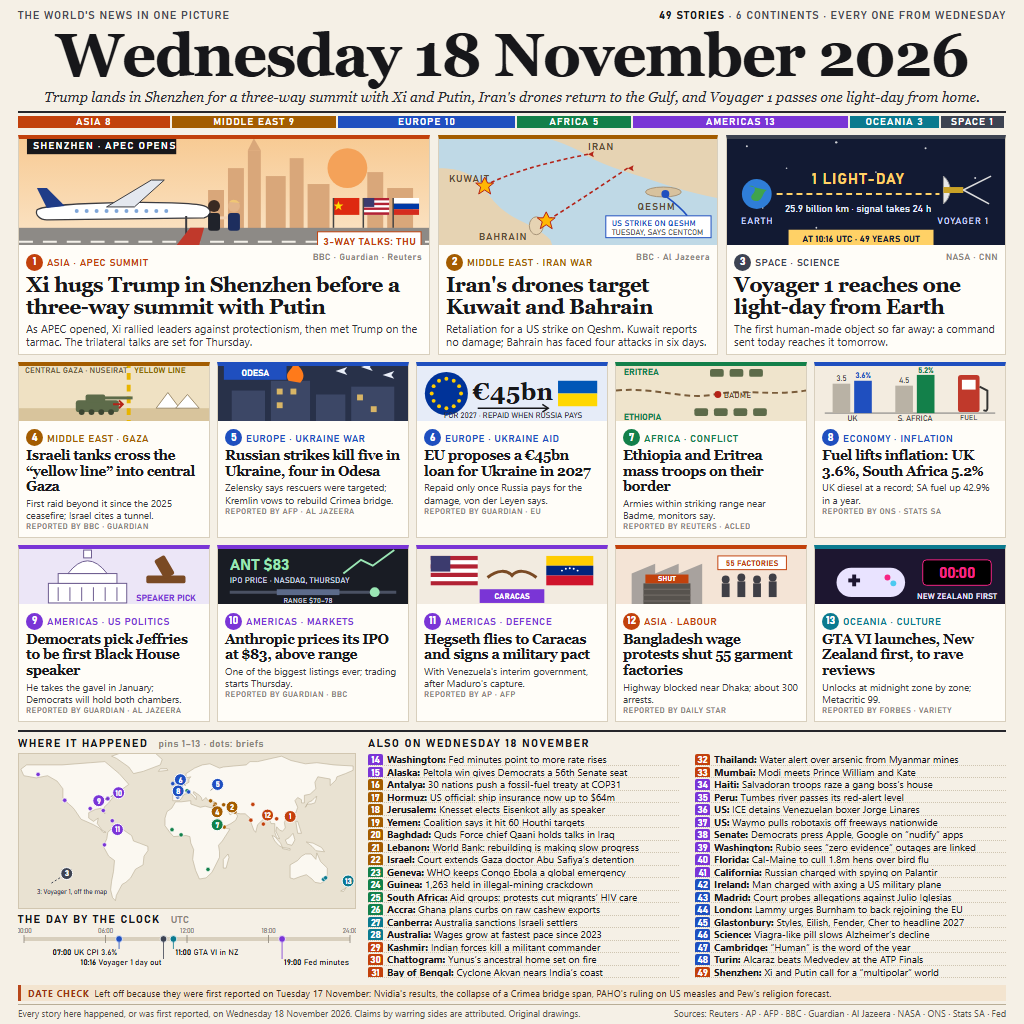
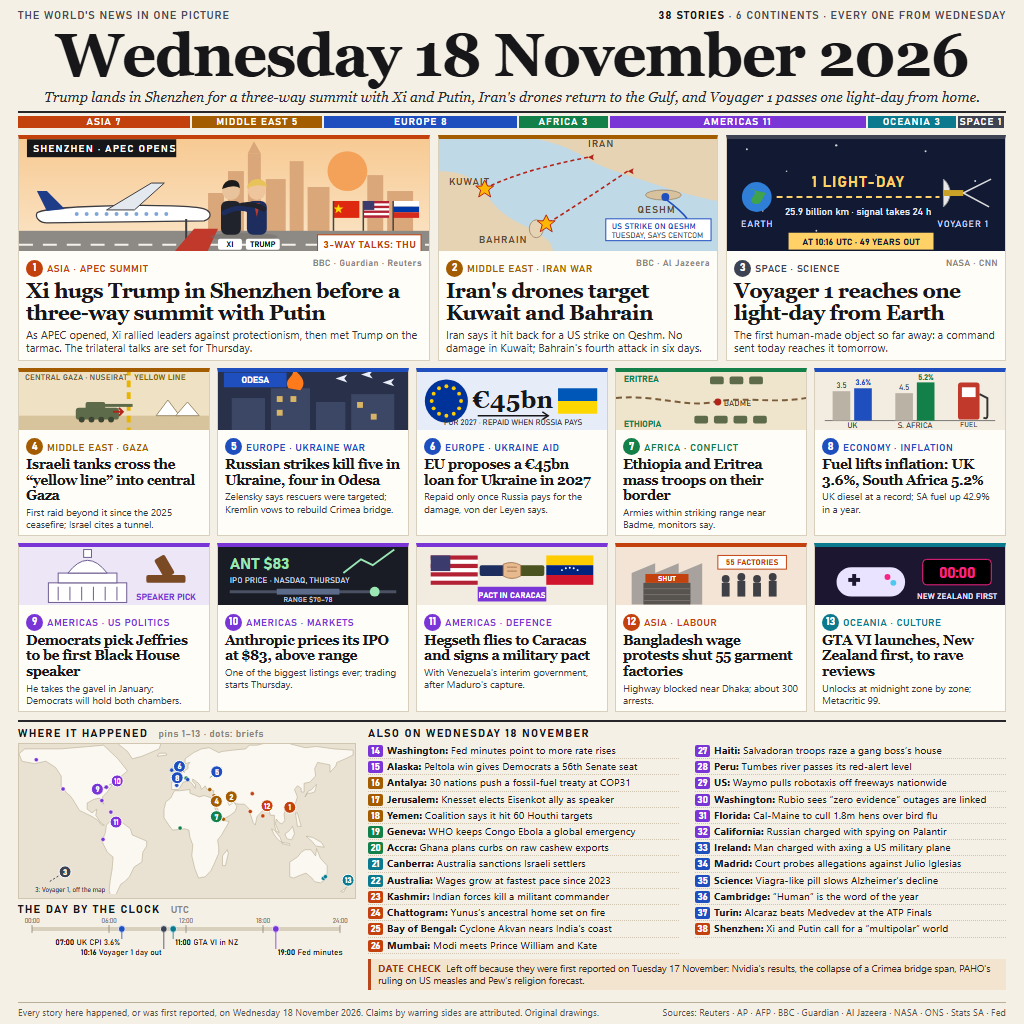
World Front v3: back to the 38-story page, clearer drawings
Starts again from v1's layout (the 49-story v2 scored lower). The lead
now shows Xi and Trump's tarmac hug with name tags, the Caracas card a
handshake, the Iran card attributes the motive to Iran, Peru replaces
the Amazon brief, and the map and UTC clock are cropped to fit.

diff --git a/src/front.html b/src/front.html
@@ -49,7 +49,6 @@
   .lead h2 { font-family: Georgia, serif; font-size: 20.5px; line-height: 22.5px; margin-top: 3px; letter-spacing: -.3px; }
   .lead p { font-size: 11px; line-height: 13.6px; color: #33333a; margin-top: 3px; }
   .sm h3 { font-family: Georgia, serif; font-size: 13.6px; line-height: 15.6px; margin-top: 2px; letter-spacing: -.2px; }
-  .tag { font: 600 7.6px Bahnschrift, sans-serif; letter-spacing: .08em; color: #8a8478; margin-top: 2px; line-height: 9px; }
   .sm p { font-size: 9.8px; line-height: 12.2px; color: #3a3a42; margin-top: 2px; }
 
   /* bottom */
@@ -59,13 +58,12 @@
   .label span { color: #8a8478; font-weight: 600; letter-spacing: .06em; text-transform: none; font-size: 9.5px; margin-left: 6px; }
   .mapbox { background: #e9e2d2; border: 1px solid #d1c6b0; margin-top: 3px; }
   .briefs { columns: 2; column-gap: 16px; margin-top: 3px; }
-  .briefs div { font-size: 9.9px; line-height: 11.6px; height: 12.5px; break-inside: avoid; padding: 0; border-bottom: 1px dotted #cfc5b1; white-space: nowrap; overflow: hidden; text-overflow: ellipsis; }
-  .briefs i { font-style: normal; display: inline-block; width: 15px; line-height: 10.5px; vertical-align: 0; font: 700 9.5px Bahnschrift, sans-serif; color: #fff; background: var(--c); text-align: center; border-radius: 2px; margin-right: 4px; }
+  .briefs div { font-size: 10.3px; line-height: 13.2px; break-inside: avoid; padding: 1px 0 1px 0; border-bottom: 1px dotted #cfc5b1; white-space: nowrap; overflow: hidden; text-overflow: ellipsis; }
+  .briefs i { font-style: normal; display: inline-block; width: 15px; font: 700 9.5px Bahnschrift, sans-serif; color: #fff; background: var(--c); text-align: center; border-radius: 2px; margin-right: 4px; }
   .briefs b { font-weight: 700; }
   .clock { margin-top: 4px; }
-  .foot { position: absolute; left: 18px; right: 18px; bottom: 5px; font-size: 9px; color: #55524b; }
-  .foot .fl { display: flex; justify-content: space-between; border-top: 1px solid #b9ae97; padding-top: 2px; margin-top: 3px; }
-  .check { background: #f3e4cf; border-left: 3px solid #b8471b; padding: 2px 7px; font-size: 9.4px; line-height: 12px; color: #3b2a1c; }
+  .foot { position: absolute; left: 18px; right: 18px; bottom: 6px; font-size: 9.3px; color: #55524b; border-top: 1px solid #b9ae97; padding-top: 3px; display: flex; justify-content: space-between; }
+  .check { margin-top: 5px; background: #f3e4cf; border-left: 3px solid #b8471b; padding: 3px 7px; font-size: 9.6px; line-height: 12.4px; color: #3b2a1c; }
   .check b { color: #9a3412; letter-spacing: .06em; }
 </style>
 </head>
@@ -83,7 +81,7 @@
 <div class="leads">
 
   <div class="card lead" style="--c: var(--asia)">
-    <svg viewBox="0 0 412 128" height="106" preserveAspectRatio="xMidYMid slice">
+    <svg viewBox="0 0 412 128" height="112" preserveAspectRatio="xMidYMid slice">
       <defs>
         <linearGradient id="dusk" x1="0" y1="0" x2="0" y2="1"><stop offset="0" stop-color="#f7c88f"/><stop offset="1" stop-color="#fbe7cc"/></linearGradient>
       </defs>
@@ -105,12 +103,22 @@
         <g fill="#7fa6d9"><circle cx="40" cy="31" r="2"/><circle cx="50" cy="31" r="2"/><circle cx="60" cy="31" r="2"/><circle cx="70" cy="31" r="2"/><circle cx="80" cy="31" r="2"/><circle cx="90" cy="31" r="2"/><circle cx="100" cy="31" r="2"/><circle cx="110" cy="31" r="2"/><circle cx="120" cy="31" r="2"/><circle cx="130" cy="31" r="2"/></g>
         <path d="M150,36 L150,60 L158,60" fill="none" stroke="#3b3b40" stroke-width="2"/>
       </g>
-      <!-- red carpet and two figures meeting -->
-      <polygon points="150,128 172,100 186,100 178,128" fill="#c0392b"/>
+      <!-- red carpet and the two leaders embracing on the tarmac -->
+      <polygon points="150,128 176,98 200,98 186,128" fill="#c0392b"/>
       <g>
-        <circle cx="196" cy="78" r="6" fill="#3a2a22"/><rect x="190" y="85" width="12" height="18" rx="3" fill="#20232b"/>
-        <circle cx="216" cy="78" r="6" fill="#e2b48a"/><path d="M211,74 Q216,69 222,75" fill="#f0c674"/><rect x="210" y="85" width="12" height="18" rx="3" fill="#1d2e5e"/>
-        <path d="M202,90 L210,90" stroke="#f1d2b4" stroke-width="3"/>
+        <ellipse cx="226" cy="106" rx="34" ry="4" fill="#6f6c68" opacity=".5"/>
+        <!-- Xi -->
+        <rect x="203" y="70" width="20" height="34" rx="6" fill="#20232b"/>
+        <circle cx="213" cy="60" r="9" fill="#e9c39b"/><path d="M204,58 Q206,49 214,49 Q222,49 222,57 Q216,53 204,58 Z" fill="#1b1b1b"/>
+        <!-- Trump -->
+        <rect x="229" y="70" width="20" height="34" rx="6" fill="#1d2e5e"/>
+        <circle cx="239" cy="60" r="9" fill="#efc59e"/><path d="M229,57 Q231,48 240,48 Q249,49 249,56 Q240,52 229,57 Z" fill="#e8c35a"/>
+        <path d="M236,72 L239,86 L242,72 Z" fill="#c0392b"/>
+        <!-- the hug: arms across each other's backs -->
+        <path d="M219,76 Q231,70 246,78" fill="none" stroke="#20232b" stroke-width="5" stroke-linecap="round"/>
+        <path d="M233,80 Q221,74 206,82" fill="none" stroke="#1d2e5e" stroke-width="5" stroke-linecap="round"/>
+        <rect x="200" y="108" width="24" height="11" rx="2" fill="#fff"/><text x="212" y="116.5" text-anchor="middle" font-family="Bahnschrift" font-weight="700" font-size="8" fill="#17171a">XI</text>
+        <rect x="228" y="108" width="34" height="11" rx="2" fill="#fff"/><text x="245" y="116.5" text-anchor="middle" font-family="Bahnschrift" font-weight="700" font-size="8" fill="#17171a">TRUMP</text>
       </g>
       <!-- three flags -->
       <g transform="translate(316,70)">
@@ -130,7 +138,7 @@
   </div>
 
   <div class="card lead" style="--c: var(--mide)">
-    <svg viewBox="0 0 280 128" height="106" preserveAspectRatio="xMidYMid slice">
+    <svg viewBox="0 0 280 128" height="112" preserveAspectRatio="xMidYMid slice">
       <rect width="280" height="128" fill="#bfd9e6"/>
       <!-- Iran coast top right, Arabia bottom left -->
       <path d="M60,0 L280,0 L280,70 C250,64 232,58 214,52 C190,44 160,36 140,22 C118,10 92,6 60,0 Z" fill="#e6d3b3"/>
@@ -138,7 +146,7 @@
       <ellipse cx="98" cy="98" rx="7" ry="9" fill="#e6d3b3" stroke="#a69378"/>
       <ellipse cx="226" cy="64" rx="18" ry="5" fill="#d8c29e" stroke="#a69378"/>
       <g font-family="Bahnschrift" font-weight="600" font-size="10" fill="#5a4a32" letter-spacing="1">
-        <text x="150" y="22">IRAN</text><text x="10" y="54">KUWAIT</text><text x="40" y="112">BAHRAIN</text><text x="200" y="82">QESHM</text>
+        <text x="150" y="16">IRAN</text><text x="10" y="54">KUWAIT</text><text x="40" y="112">BAHRAIN</text><text x="200" y="82">QESHM</text>
       </g>
       <!-- drone tracks -->
       <g fill="none" stroke="#b42318" stroke-width="1.6" stroke-dasharray="4 3">
@@ -158,12 +166,12 @@
     <div class="t">
       <span class="num">2</span><span class="k kick">Middle East &middot; Iran war</span><span class="src">BBC &middot; Al Jazeera</span>
       <h2>Iran's drones target Kuwait and Bahrain</h2>
-      <p>Retaliation for a US strike on Qeshm. Kuwait reports no damage; Bahrain has faced four attacks in six days.</p>
+      <p>Iran says it hit back for a US strike on Qeshm. No damage in Kuwait; Bahrain's fourth attack in six days.</p>
     </div>
   </div>
 
   <div class="card lead" style="--c: var(--space)">
-    <svg viewBox="0 0 280 128" height="106" preserveAspectRatio="xMidYMid slice">
+    <svg viewBox="0 0 280 128" height="112" preserveAspectRatio="xMidYMid slice">
       <rect width="280" height="128" fill="#121a33"/>
       <g fill="#fff" opacity=".8"><circle cx="20" cy="18" r="1"/><circle cx="60" cy="40" r=".8"/><circle cx="110" cy="14" r="1.2"/><circle cx="150" cy="44" r=".8"/><circle cx="200" cy="20" r="1"/><circle cx="250" cy="50" r="1"/><circle cx="90" cy="100" r=".9"/><circle cx="170" cy="112" r="1"/><circle cx="230" cy="96" r=".8"/><circle cx="36" cy="80" r=".8"/></g>
       <circle cx="30" cy="66" r="15" fill="#2f7ed8"/><path d="M22,58 C28,56 30,62 26,66 C22,70 26,74 31,73 C36,72 36,64 40,62" fill="#3fa34d"/>
@@ -192,7 +200,7 @@
 <div class="grid">
 
   <div class="card sm" style="--c: var(--mide)">
-    <svg viewBox="0 0 194 66" height="55" preserveAspectRatio="xMidYMid slice">
+    <svg viewBox="0 0 194 66" height="58" preserveAspectRatio="xMidYMid slice">
       <rect width="194" height="66" fill="#efe1c3"/>
       <rect y="48" width="194" height="18" fill="#d8c49c"/>
       <line x1="112" y1="0" x2="112" y2="66" stroke="#e8b400" stroke-width="4" stroke-dasharray="7 5"/>
@@ -208,7 +216,7 @@
   </div>
 
   <div class="card sm" style="--c: var(--euro)">
-    <svg viewBox="0 0 194 66" height="55" preserveAspectRatio="xMidYMid slice">
+    <svg viewBox="0 0 194 66" height="58" preserveAspectRatio="xMidYMid slice">
       <rect width="194" height="66" fill="#283149"/>
       <g fill="#3c4766"><rect x="14" y="30" width="34" height="36"/><rect x="54" y="20" width="40" height="46"/><rect x="100" y="34" width="30" height="32"/><rect x="136" y="26" width="44" height="40"/></g>
       <g fill="#ffd166" opacity=".8"><rect x="60" y="28" width="6" height="6"/><rect x="74" y="28" width="6" height="6"/><rect x="60" y="42" width="6" height="6"/><rect x="142" y="34" width="6" height="6"/><rect x="156" y="46" width="6" height="6"/></g>
@@ -222,7 +230,7 @@
   </div>
 
   <div class="card sm" style="--c: var(--euro)">
-    <svg viewBox="0 0 194 66" height="55" preserveAspectRatio="xMidYMid slice">
+    <svg viewBox="0 0 194 66" height="58" preserveAspectRatio="xMidYMid slice">
       <rect width="194" height="66" fill="#e6ecf8"/>
       <g transform="translate(30,33)"><circle r="22" fill="#003399"/>
         <g fill="#ffcc00"><circle cx="0" cy="-15" r="2"/><circle cx="7.5" cy="-13" r="2"/><circle cx="13" cy="-7.5" r="2"/><circle cx="15" cy="0" r="2"/><circle cx="13" cy="7.5" r="2"/><circle cx="7.5" cy="13" r="2"/><circle cx="0" cy="15" r="2"/><circle cx="-7.5" cy="13" r="2"/><circle cx="-13" cy="7.5" r="2"/><circle cx="-15" cy="0" r="2"/><circle cx="-13" cy="-7.5" r="2"/><circle cx="-7.5" cy="-13" r="2"/></g></g>
@@ -237,7 +245,7 @@
   </div>
 
   <div class="card sm" style="--c: var(--afri)">
-    <svg viewBox="0 0 194 66" height="55" preserveAspectRatio="xMidYMid slice">
+    <svg viewBox="0 0 194 66" height="58" preserveAspectRatio="xMidYMid slice">
       <rect width="194" height="66" fill="#efe4cc"/>
       <path d="M0,30 C40,26 70,40 100,34 C130,28 160,36 194,30" fill="none" stroke="#7a5c3a" stroke-width="2" stroke-dasharray="6 4"/>
       <text x="8" y="14" font-family="Bahnschrift" font-weight="700" font-size="9" fill="#13804a">ERITREA</text>
@@ -252,7 +260,7 @@
   </div>
 
   <div class="card sm" style="--c: var(--euro)">
-    <svg viewBox="0 0 194 66" height="55" preserveAspectRatio="xMidYMid slice">
+    <svg viewBox="0 0 194 66" height="58" preserveAspectRatio="xMidYMid slice">
       <rect width="194" height="66" fill="#f3ece0"/>
       <line x1="10" y1="53" x2="184" y2="53" stroke="#777" stroke-width="1"/>
       <g font-family="Bahnschrift" font-size="8" fill="#444" text-anchor="middle">
@@ -272,7 +280,7 @@
 
 <div class="grid">
   <div class="card sm" style="--c: var(--amer)">
-    <svg viewBox="0 0 194 66" height="55" preserveAspectRatio="xMidYMid slice">
+    <svg viewBox="0 0 194 66" height="58" preserveAspectRatio="xMidYMid slice">
       <rect width="194" height="66" fill="#ece6f7"/>
       <g fill="#fff" stroke="#6b5a8e" stroke-width="1"><rect x="30" y="40" width="80" height="20"/><rect x="40" y="30" width="60" height="10"/><path d="M50,30 Q70,4 90,30 Z"/><rect x="66" y="6" width="8" height="8"/></g>
       <g stroke="#6b5a8e"><line x1="40" y1="44" x2="40" y2="58"/><line x1="52" y1="44" x2="52" y2="58"/><line x1="64" y1="44" x2="64" y2="58"/><line x1="76" y1="44" x2="76" y2="58"/><line x1="88" y1="44" x2="88" y2="58"/><line x1="100" y1="44" x2="100" y2="58"/></g>
@@ -285,7 +293,7 @@
   </div>
 
   <div class="card sm" style="--c: var(--amer)">
-    <svg viewBox="0 0 194 66" height="55" preserveAspectRatio="xMidYMid slice">
+    <svg viewBox="0 0 194 66" height="58" preserveAspectRatio="xMidYMid slice">
       <rect width="194" height="66" fill="#191c24"/>
       <text x="12" y="26" font-family="Bahnschrift" font-weight="700" font-size="16" fill="#9ae6b4">ANT $83</text>
       <text x="12" y="40" font-family="Bahnschrift" font-size="8.5" fill="#c9d1e0">IPO PRICE &#183; NASDAQ, THURSDAY</text>
@@ -300,12 +308,16 @@
   </div>
 
   <div class="card sm" style="--c: var(--amer)">
-    <svg viewBox="0 0 194 66" height="55" preserveAspectRatio="xMidYMid slice">
+    <svg viewBox="0 0 194 66" height="58" preserveAspectRatio="xMidYMid slice">
       <rect width="194" height="66" fill="#f2ebe0"/>
       <g transform="translate(14,12)"><rect width="48" height="30" fill="#fff"/><g fill="#b22234"><rect width="48" height="4.3"/><rect y="8.6" width="48" height="4.3"/><rect y="17.2" width="48" height="4.3"/><rect y="25.8" width="48" height="4.2"/></g><rect width="20" height="16" fill="#3c3b6e"/></g>
       <g transform="translate(132,12)"><rect width="48" height="10" fill="#ffcc00"/><rect y="10" width="48" height="10" fill="#00247d"/><rect y="20" width="48" height="10" fill="#cf142b"/><g fill="#fff"><circle cx="16" cy="15" r="1"/><circle cx="20" cy="13" r="1"/><circle cx="24" cy="12.5" r="1"/><circle cx="28" cy="13" r="1"/><circle cx="32" cy="15" r="1"/></g></g>
-      <path d="M72,34 C82,26 92,26 97,32 C102,26 112,26 122,34" fill="none" stroke="#7a4a24" stroke-width="3"/>
-      <rect x="64" y="46" width="66" height="14" fill="#7a35d6"/><text x="97" y="56" text-anchor="middle" font-family="Bahnschrift" font-weight="700" font-size="8.5" fill="#fff">CARACAS</text>
+      <!-- handshake: US sleeve from the left, Venezuelan sleeve from the right -->
+      <rect x="64" y="22" width="26" height="11" rx="2" fill="#1d2e5e"/>
+      <rect x="104" y="22" width="26" height="11" rx="2" fill="#4b5320"/>
+      <path d="M88,21 Q97,17 106,22 L106,33 Q97,38 88,33 Z" fill="#e7b98e" stroke="#9c6b43" stroke-width=".8"/>
+      <path d="M92,24 L102,24 M92,28 L102,28" stroke="#9c6b43" stroke-width=".8"/>
+      <rect x="62" y="44" width="70" height="15" fill="#7a35d6"/><text x="97" y="55" text-anchor="middle" font-family="Bahnschrift" font-weight="700" font-size="8.5" fill="#fff">PACT IN CARACAS</text>
     </svg>
     <div class="t"><span class="num">11</span><span class="k kick">Americas &middot; defence</span>
       <h3>Hegseth flies to Caracas and signs a military pact</h3>
@@ -313,7 +325,7 @@
   </div>
 
   <div class="card sm" style="--c: var(--asia)">
-    <svg viewBox="0 0 194 66" height="55" preserveAspectRatio="xMidYMid slice">
+    <svg viewBox="0 0 194 66" height="58" preserveAspectRatio="xMidYMid slice">
       <rect width="194" height="66" fill="#f4e4d6"/>
       <g fill="#a8a29e"><path d="M16,62 L16,30 L40,20 L40,30 L64,20 L64,30 L88,20 L88,62 Z"/></g>
       <rect x="28" y="40" width="48" height="22" fill="#57534e"/><g stroke="#78716c"><line x1="28" y1="46" x2="76" y2="46"/><line x1="28" y1="52" x2="76" y2="52"/><line x1="28" y1="58" x2="76" y2="58"/></g>
@@ -327,7 +339,7 @@
   </div>
 
   <div class="card sm" style="--c: var(--ocea)">
-    <svg viewBox="0 0 194 66" height="55" preserveAspectRatio="xMidYMid slice">
+    <svg viewBox="0 0 194 66" height="58" preserveAspectRatio="xMidYMid slice">
       <rect width="194" height="66" fill="#1d1630"/>
       <g transform="translate(22,18)"><rect x="0" y="6" width="70" height="30" rx="15" fill="#e9e3ff"/><rect x="12" y="17" width="12" height="4" fill="#1d1630"/><rect x="16" y="13" width="4" height="12" fill="#1d1630"/><circle cx="52" cy="16" r="3" fill="#f72585"/><circle cx="58" cy="22" r="3" fill="#4cc9f0"/></g>
       <rect x="110" y="16" width="70" height="26" rx="4" fill="#000" stroke="#f72585"/><text x="145" y="35" text-anchor="middle" font-family="Bahnschrift" font-weight="700" font-size="16" fill="#f72585">00:00</text>
@@ -350,12 +362,13 @@
   <div>
     <div class="label">Also on Wednesday 18 November</div>
     <div class="briefs" id="briefs"></div>
+    <div class="check"><b>DATE CHECK</b> &nbsp;Left off because they were first reported on Tuesday 17 November: Nvidia's results, the collapse of a Crimea bridge span, PAHO's ruling on US measles and Pew's religion forecast.</div>
   </div>
 </div>
 
 <div class="foot">
-  <div class="check"><b>DATE CHECK</b> &nbsp;Left off because they were first reported on Tuesday 17 November: Nvidia's results, the collapse of a Crimea bridge span, PAHO's ruling on US measles and Pew's religion forecast.</div>
-  <div class="fl"><span>Every story here happened, or was first reported, on Wednesday 18 November 2026. Claims by warring sides are attributed. Original drawings.</span><span>Sources: Reuters &middot; AP &middot; AFP &middot; BBC &middot; Guardian &middot; Al Jazeera &middot; NASA &middot; ONS &middot; Stats SA &middot; Fed</span></div>
+  <div>Every story here happened, or was first reported, on Wednesday 18 November 2026. Claims by warring sides are attributed. Original drawings.</div>
+  <div>Sources: Reuters &middot; AP &middot; AFP &middot; BBC &middot; Guardian &middot; Al Jazeera &middot; NASA &middot; ONS &middot; Stats SA &middot; Fed</div>
 </div>
 
 <script>
@@ -378,35 +391,24 @@ const BRIEFS = [
   ['amer', 'Washington', 'Fed minutes point to more rate rises', -77.0, 38.9],
   ['amer', 'Alaska', 'Peltola win gives Democrats a 56th Senate seat', -150.0, 61.2],
   ['mide', 'Antalya', '30 nations push a fossil-fuel treaty at COP31', 30.7, 36.9],
-  ['mide', 'Hormuz', 'US official: ship insurance now up to $64m', 56.3, 26.6],
   ['mide', 'Jerusalem', 'Knesset elects Eisenkot ally as speaker', 35.2, 31.8],
   ['mide', 'Yemen', 'Coalition says it hit 60 Houthi targets', 45.0, 12.8],
-  ['mide', 'Baghdad', 'Quds Force chief Qaani holds talks in Iraq', 44.4, 33.3],
-  ['mide', 'Lebanon', 'World Bank: rebuilding is making slow progress', 35.5, 33.9],
-  ['mide', 'Israel', 'Court extends Gaza doctor Abu Safiya’s detention', 34.8, 32.1],
   ['afri', 'Geneva', 'WHO keeps Congo Ebola a global emergency', 6.1, 46.2],
-  ['afri', 'Guinea', '1,263 held in illegal-mining crackdown', -9.7, 10.4],
-  ['afri', 'South Africa', 'Aid groups: protests cut migrants’ HIV care', 28.0, -26.2],
   ['afri', 'Accra', 'Ghana plans curbs on raw cashew exports', -0.2, 5.6],
   ['ocea', 'Canberra', 'Australia sanctions Israeli settlers', 149.1, -35.3],
   ['ocea', 'Australia', 'Wages grow at fastest pace since 2023', 151.2, -33.9],
   ['asia', 'Kashmir', 'Indian forces kill a militant commander', 75.0, 33.6],
   ['asia', 'Chattogram', 'Yunus’s ancestral home set on fire', 91.8, 22.3],
   ['asia', 'Bay of Bengal', 'Cyclone Akvan nears India’s coast', 86.0, 15.5],
-  ['asia', 'Thailand', 'Water alert over arsenic from Myanmar mines', 99.9, 20.4],
   ['asia', 'Mumbai', 'Modi meets Prince William and Kate', 72.9, 19.1],
   ['amer', 'Haiti', 'Salvadoran troops raze a gang boss’s house', -72.3, 18.6],
   ['amer', 'Peru', 'Tumbes river passes its red-alert level', -80.5, -3.6],
-  ['amer', 'US', 'ICE detains Venezuelan boxer Jorge Linares', -95.4, 29.8],
   ['amer', 'US', 'Waymo pulls robotaxis off freeways nationwide', -122.1, 37.4],
-  ['amer', 'Senate', 'Democrats press Apple, Google on “nudify” apps', -77.0, 38.9],
   ['amer', 'Washington', 'Rubio sees “zero evidence” outages are linked', -77.0, 38.9],
   ['amer', 'Florida', 'Cal-Maine to cull 1.8m hens over bird flu', -81.7, 28.0],
   ['amer', 'California', 'Russian charged with spying on Palantir', -122.1, 37.4],
   ['euro', 'Ireland', 'Man charged with axing a US military plane', -8.9, 52.7],
   ['euro', 'Madrid', 'Court probes allegations against Julio Iglesias', -3.7, 40.4],
-  ['euro', 'London', 'Lammy urges Burnham to back rejoining the EU', -0.1, 51.5],
-  ['euro', 'Glastonbury', 'Styles, Eilish, Fender, Cher to headline 2027', -2.6, 51.1],
   ['euro', 'Science', 'Viagra-like pill slows Alzheimer’s decline', -0.1, 51.5],
   ['euro', 'Cambridge', '“Human” is the word of the year', 0.1, 52.2],
   ['euro', 'Turin', 'Alcaraz beats Medvedev at the ATP Finals', 7.7, 45.1],
@@ -422,21 +424,11 @@ for (const k of ['asia', 'mide', 'euro', 'afri', 'amer', 'ocea', 'space']) {
   if (!counts[k]) continue;
   const d = document.createElement('div');
   d.style.background = REG[k][1];
-  d.style.flex = String(counts[k] + 4);
+  d.style.flex = String(counts[k] + 1.2);
   d.textContent = REG[k][0].toUpperCase() + ' ' + counts[k];
   bar.appendChild(d);
 }
 document.querySelector('.top b').textContent = total + ' stories';
-
-// ---------- who reported each illustrated story (cards 4-13) ----------
-const CARD_SOURCES = ['BBC · GUARDIAN', 'AFP · AL JAZEERA', 'GUARDIAN · EU', 'REUTERS · ACLED', 'ONS · STATS SA',
-  'GUARDIAN · AL JAZEERA', 'GUARDIAN · BBC', 'AP · AFP', 'DAILY STAR', 'FORBES · VARIETY'];
-document.querySelectorAll('.card.sm').forEach((card, i) => {
-  const tag = document.createElement('div');
-  tag.className = 'tag';
-  tag.textContent = 'REPORTED BY ' + CARD_SOURCES[i];
-  card.querySelector('.t').appendChild(tag);
-});
 
 // ---------- briefs ----------
 const bl = document.getElementById('briefs');
@@ -475,7 +467,7 @@ const LAND = [
   [[114,-22],[114,-34],[118,-35],[124,-33],[131,-31],[137,-35],[140,-38],[146,-39],[150,-37],[153,-31],[153,-25],[146,-19],[142,-11],[141,-17],[136,-12],[130,-12],[126,-14],[122,-18]],
   [[172,-34.5],[175,-37],[178,-38],[175,-41.5],[171,-44],[167,-46],[170,-46.5],[174,-41]],
 ];
-const MW = 336, MH = 150, LON0 = -170, LON1 = 182, LAT0 = 80, LAT1 = -58;
+const MW = 336, MH = 150, LON0 = -168, LON1 = 182, LAT0 = 74, LAT1 = -48;
 const px = lon => (lon - LON0) / (LON1 - LON0) * MW;
 const py = lat => (LAT0 - lat) / (LAT0 - LAT1) * MH;
 const NS = 'http://www.w3.org/2000/svg';
@@ -507,7 +499,7 @@ vt.textContent = '3: Voyager 1, off the map';
 
 // ---------- the day by the clock ----------
 const clock = document.getElementById('clock');
-const CX0 = 6, CX1 = 332;
+const CX0 = 14, CX1 = 322;
 const cx = h => CX0 + (h / 24) * (CX1 - CX0);
 el('rect', { x: CX0, y: 8, width: CX1 - CX0, height: 4, fill: '#d8cfbd' }, clock);
 for (let h = 0; h <= 24; h += 6) {
